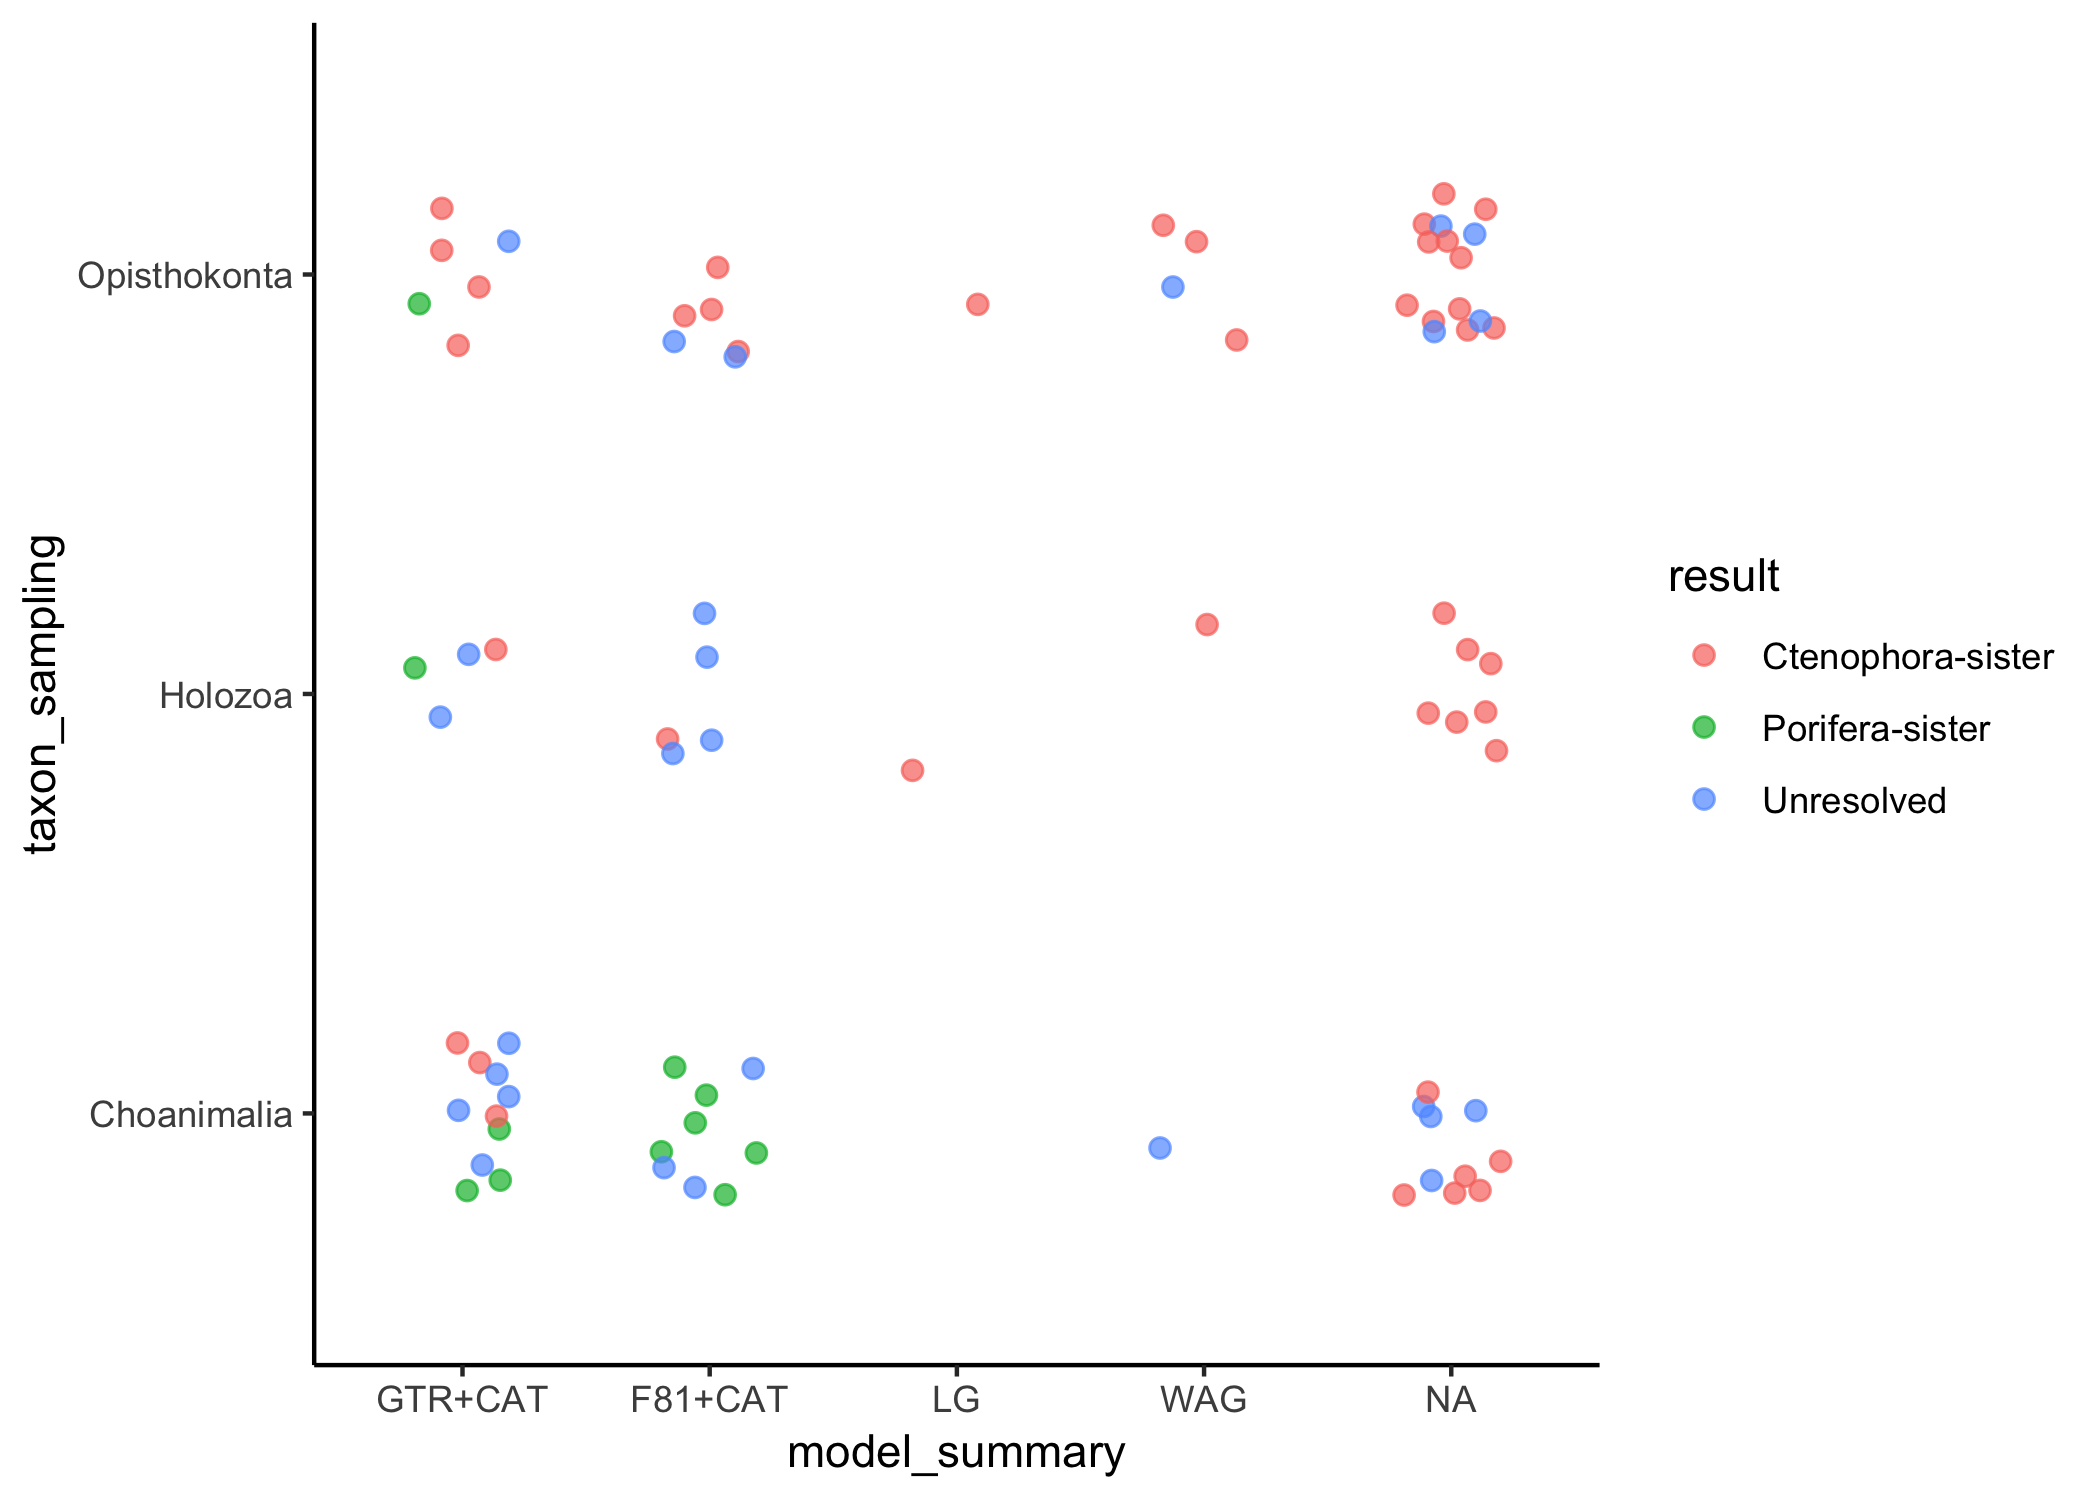
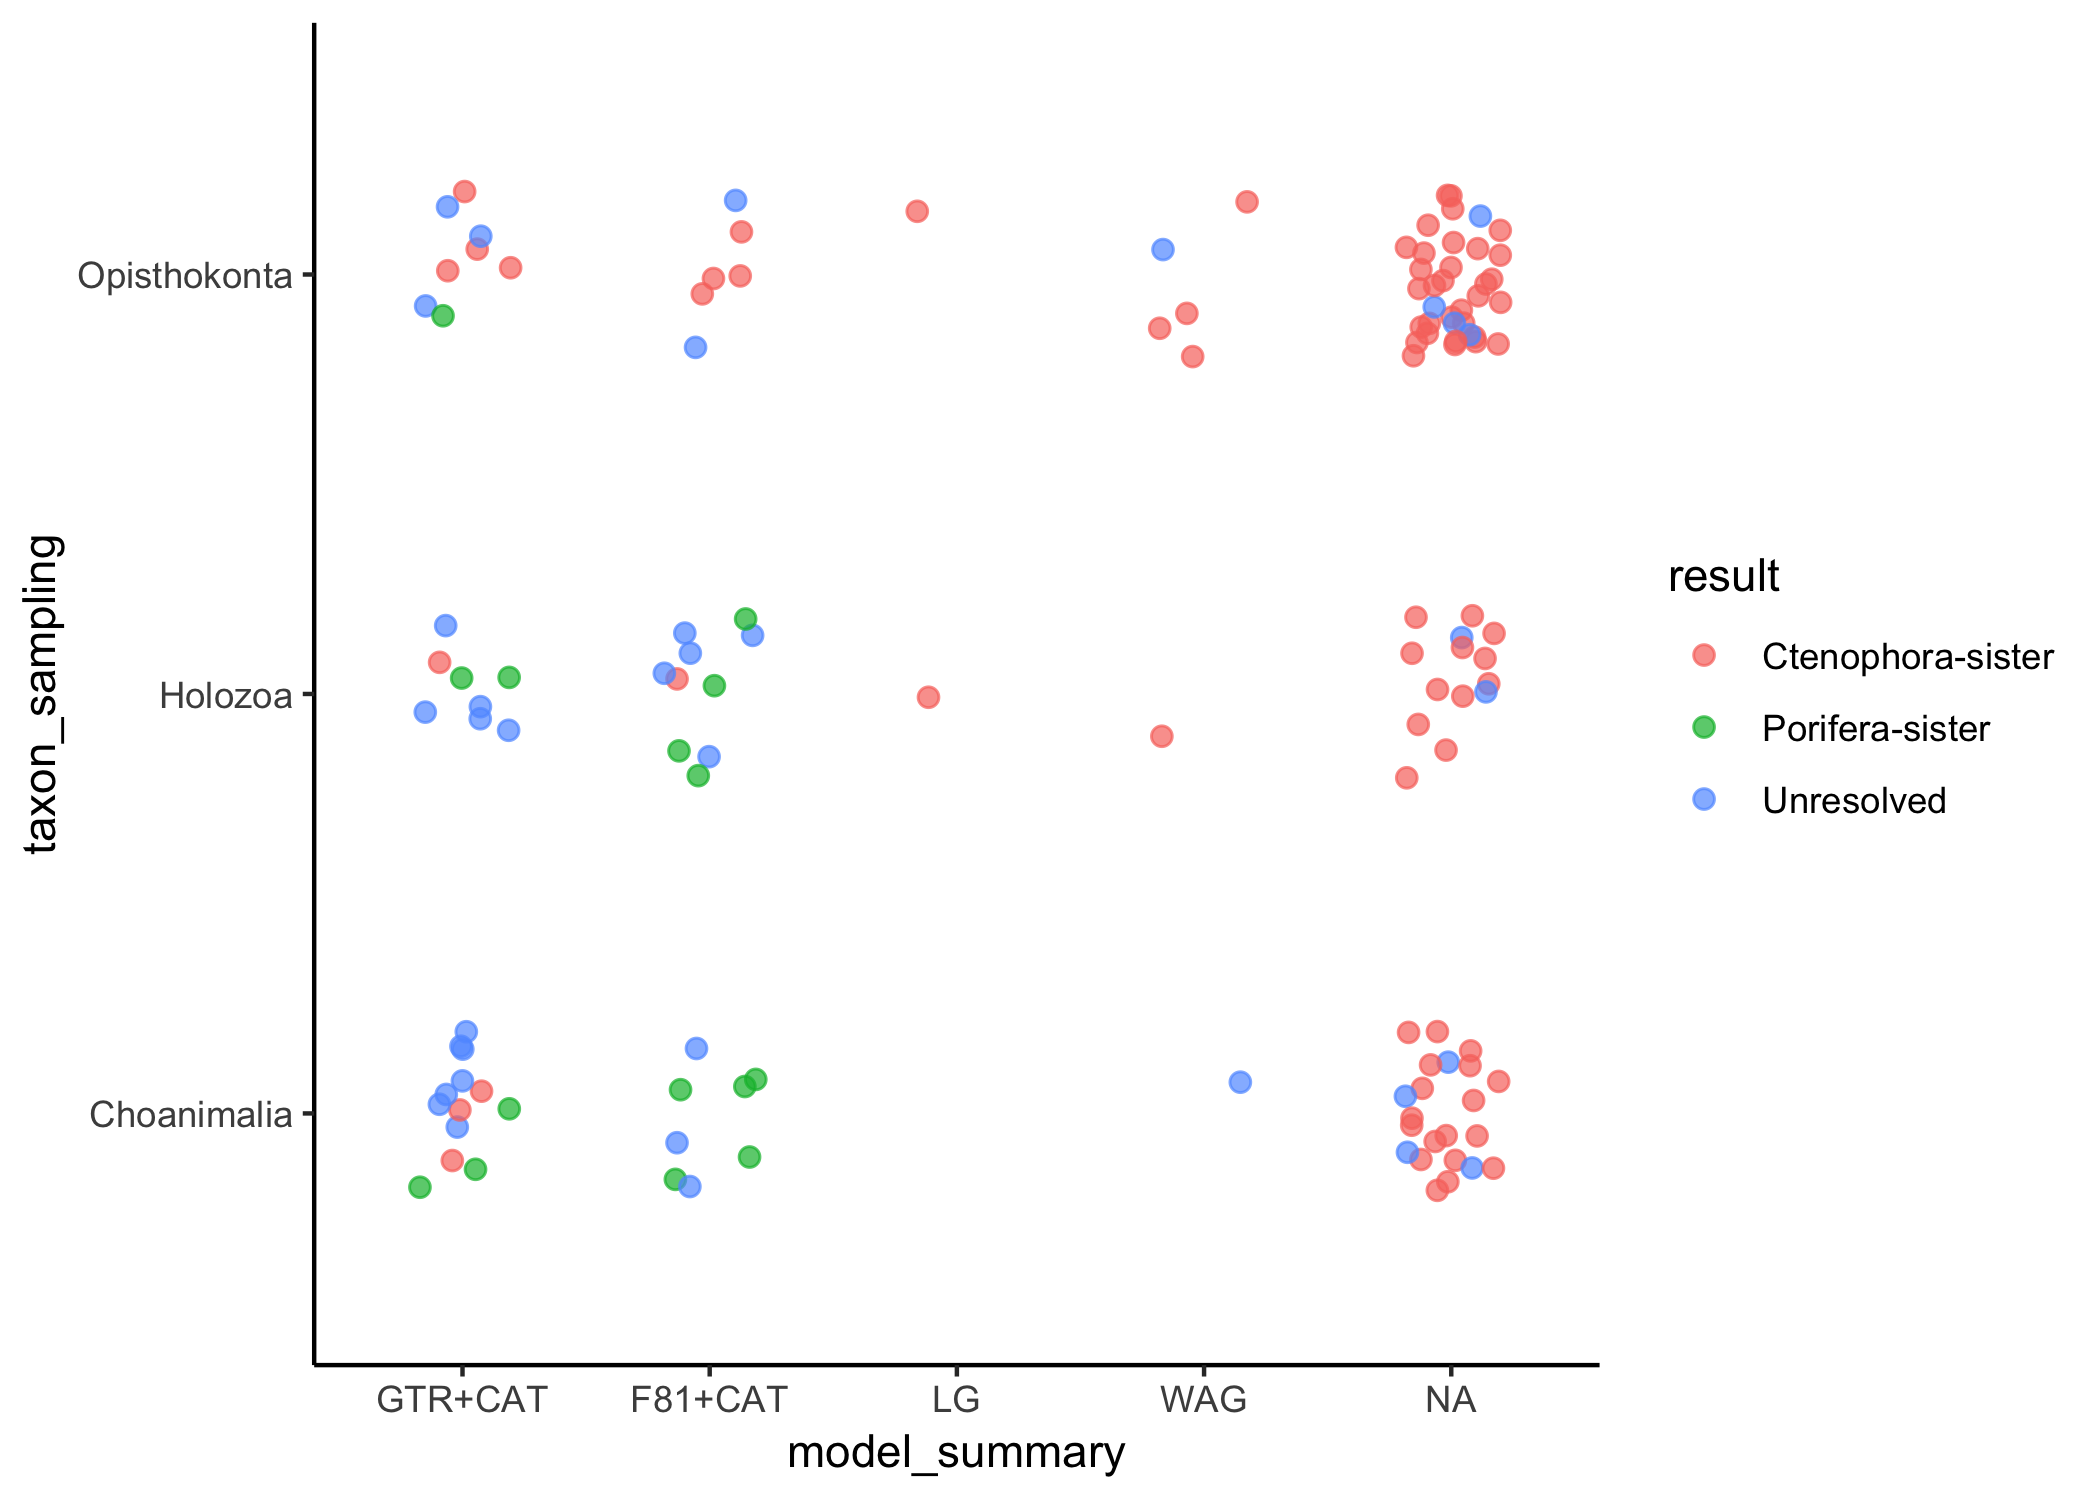
updated plot with new data

diff --git a/manuscript.md b/manuscript.md
@@ -12,6 +12,8 @@ Published analyses
 
 ![](manuscript_files/figure-markdown_github/support-1.png)
 
+A total of 134 analyses were transcribed from the literature.
+
 References
 ----------
 
